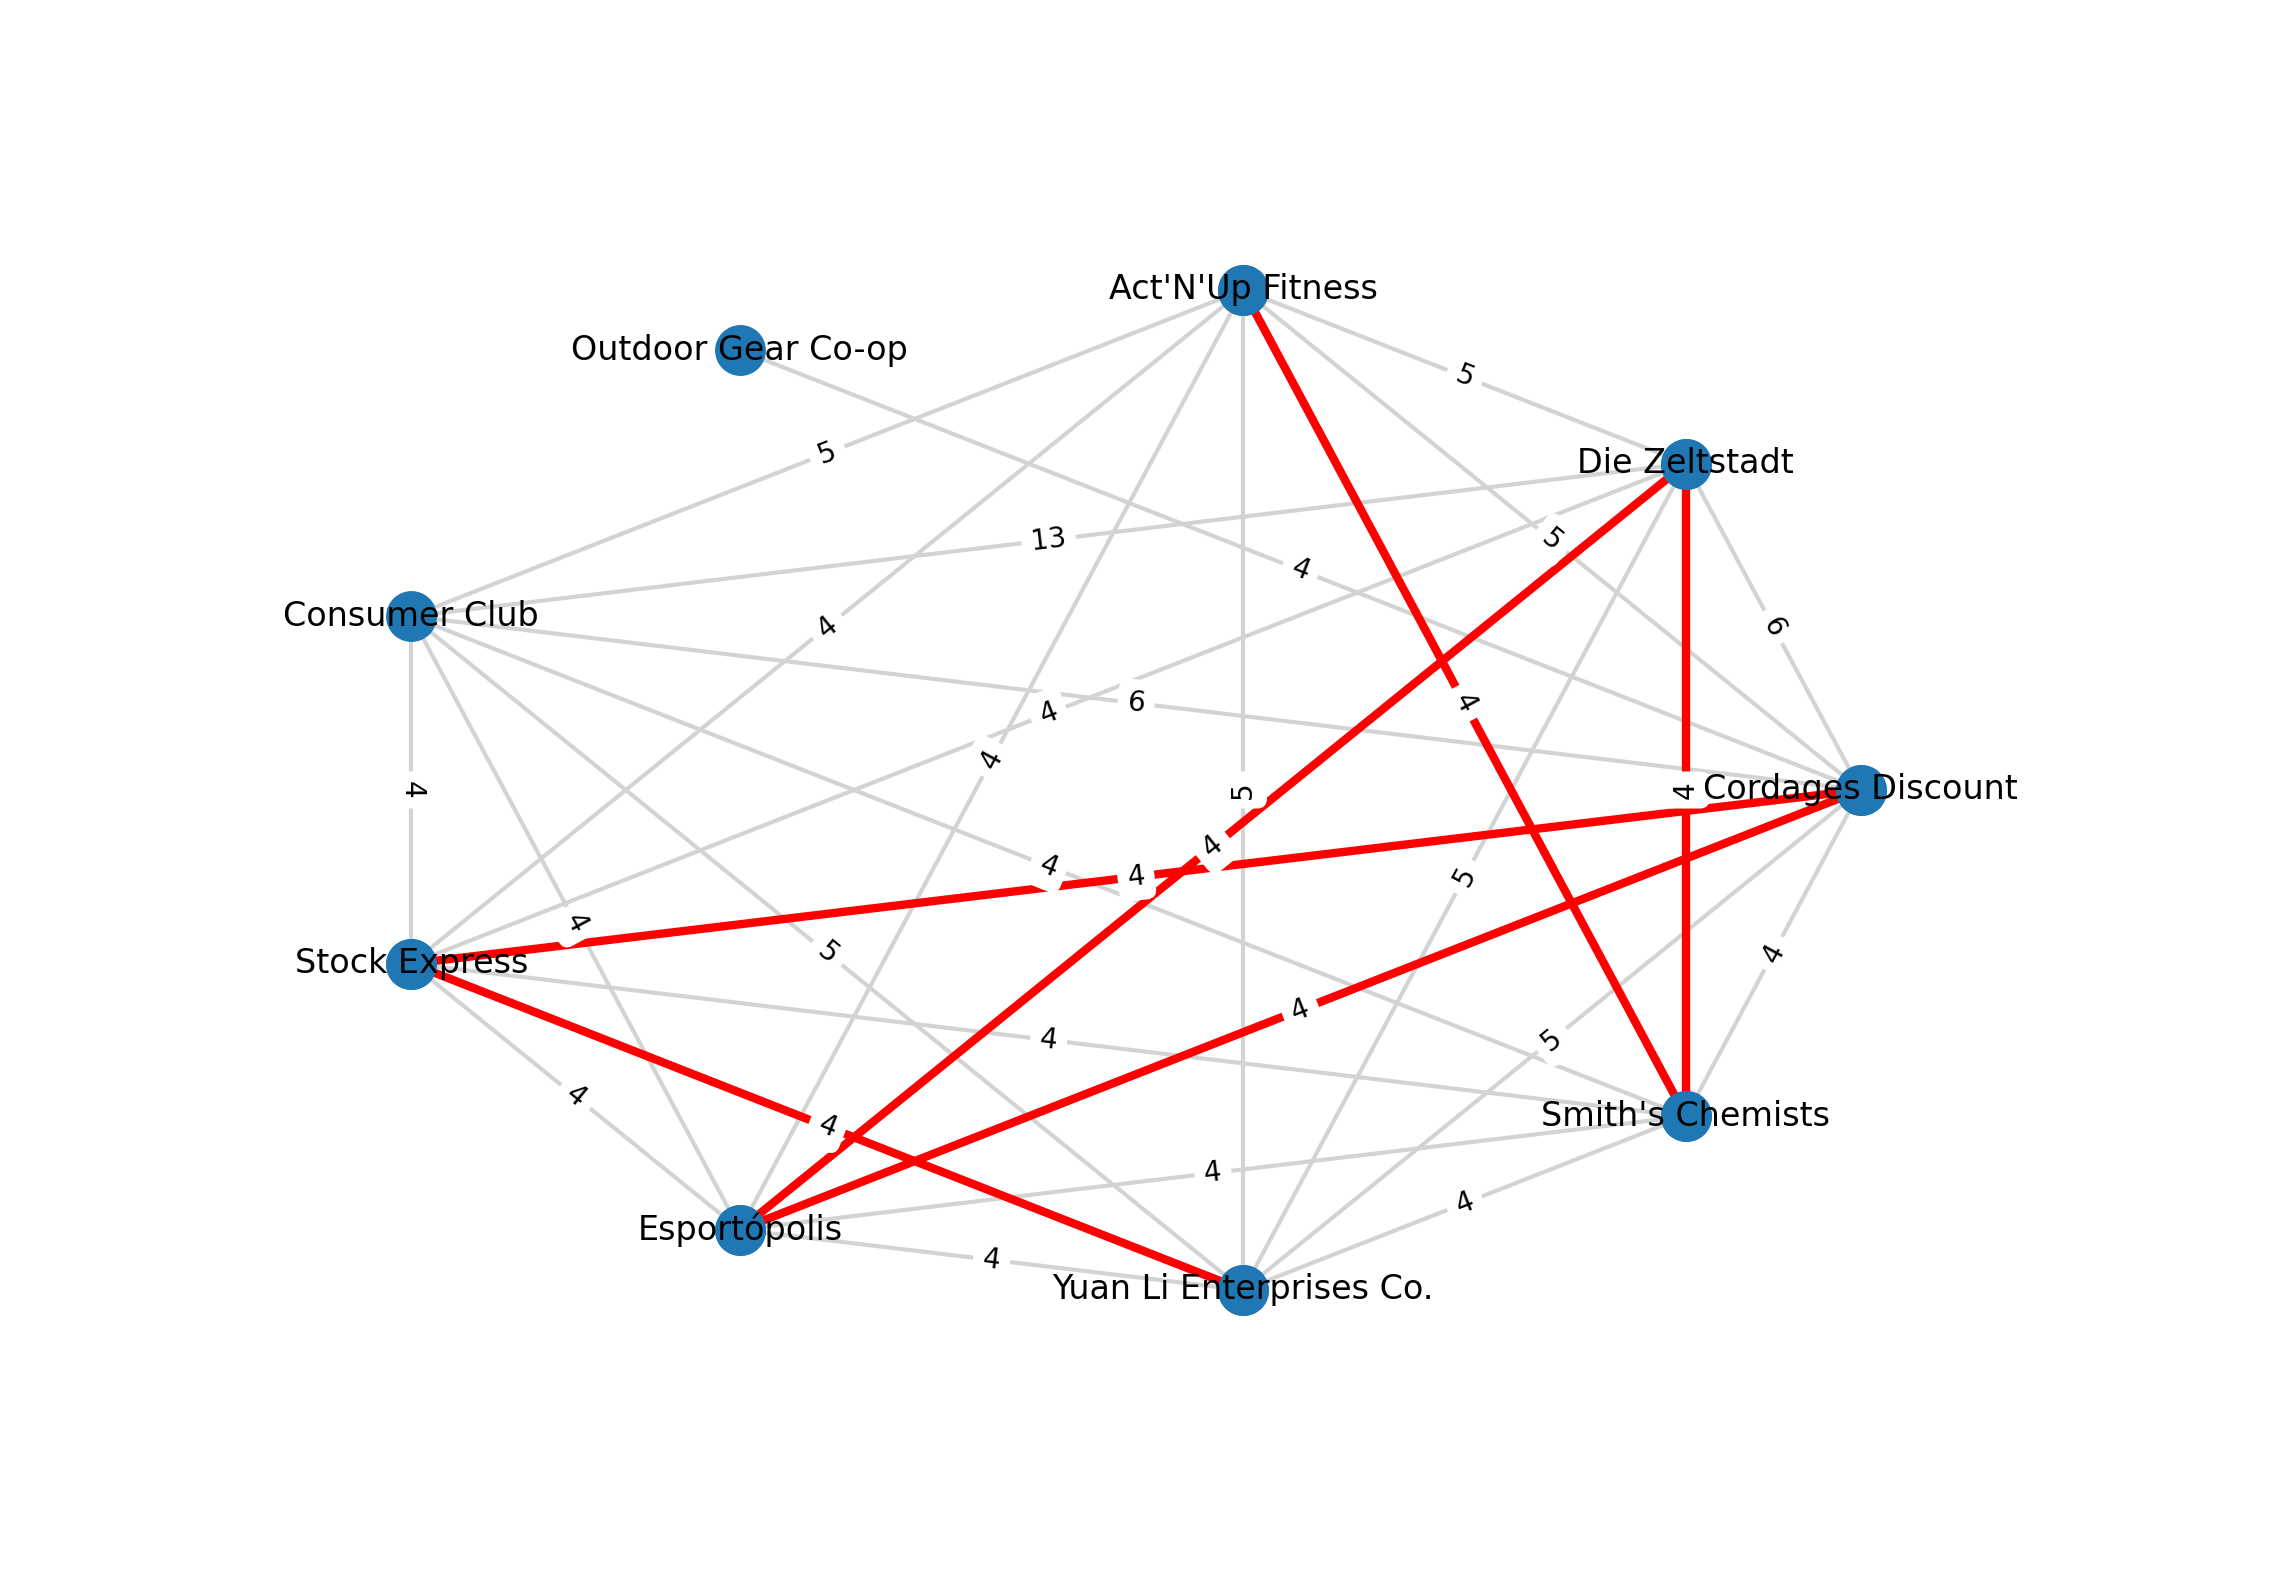
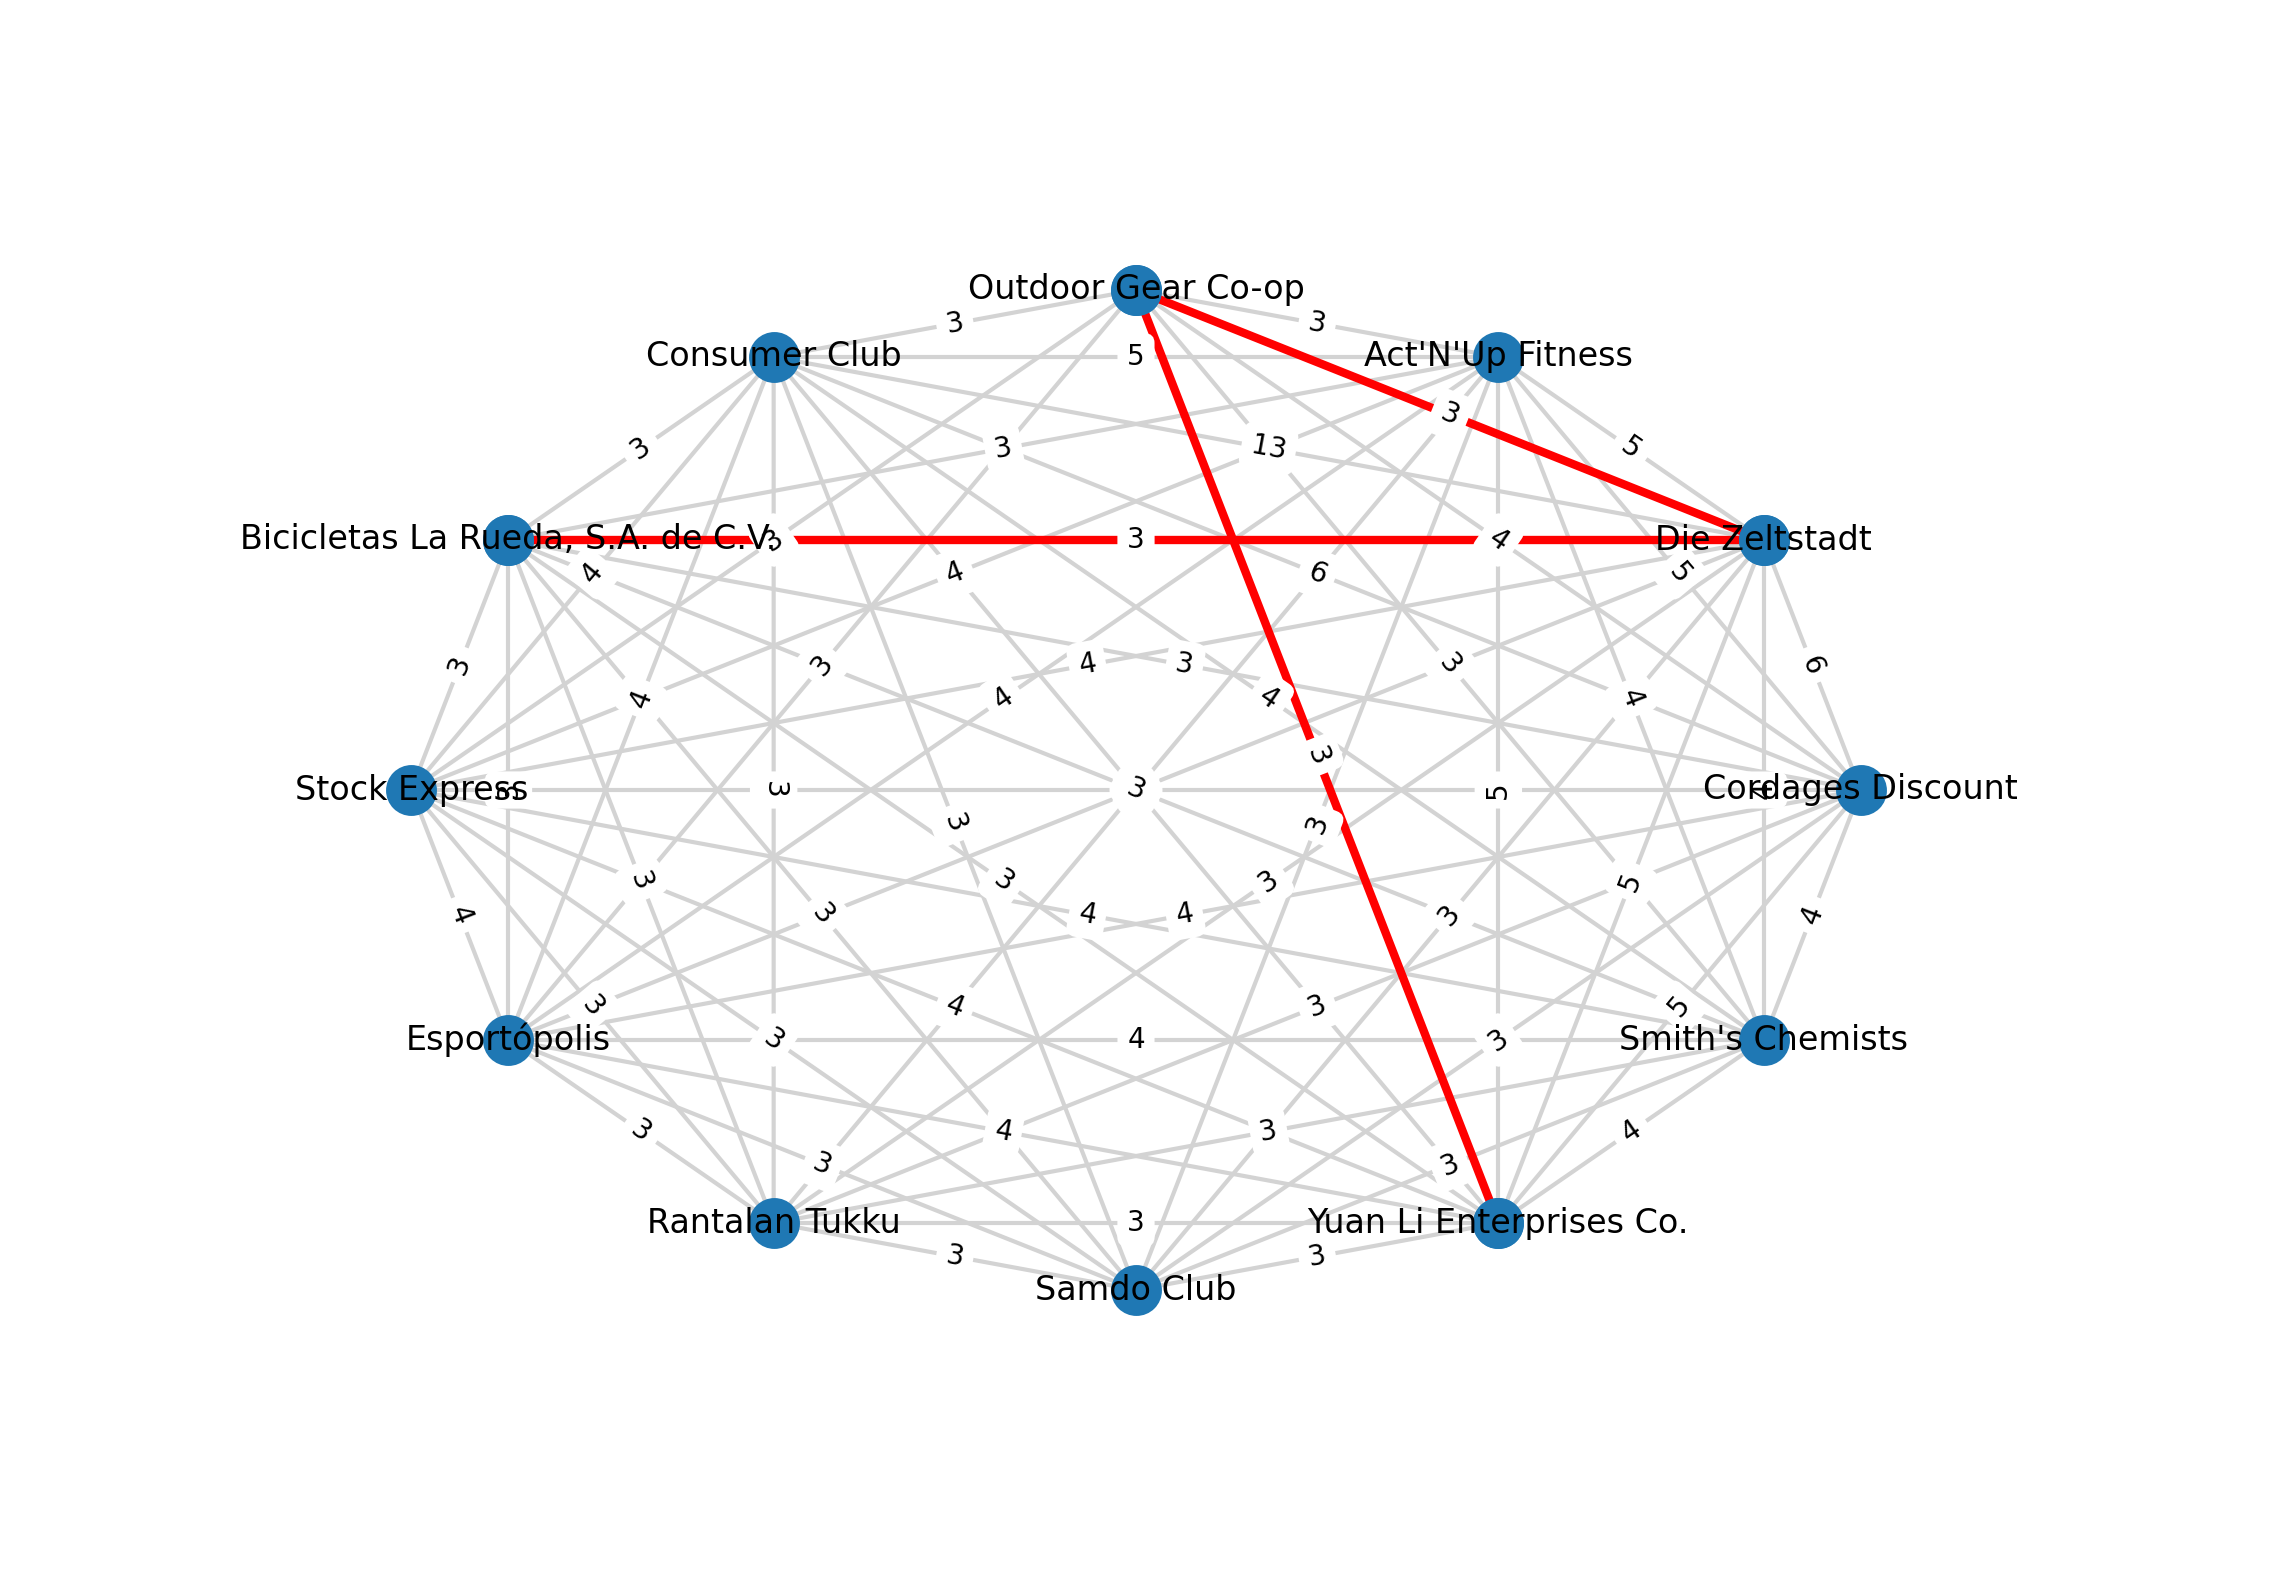
correzione ortografica di alcuni errori di battitura

Changed region(s): [[0.125, 0.1551, 0.8438, 0.8373]]

diff --git a/UI/controller.py b/UI/controller.py
@@ -1,7 +1,6 @@
 import flet as ft
 from UI.view import View
 from model.modello import Model
-import time
 import base64
 
 class Controller:
@@ -45,7 +44,7 @@ class Controller:
 
         if dateFrom > dateTo:
             self._view.txt_result_temp.controls.clear()
-            self._view.txt_result_temp.controls.append(ft.Text(f"Attenzione, la data di partenza non può essere successiva e quella di arrivo", color = "red"))
+            self._view.txt_result_temp.controls.append(ft.Text(f"Attenzione, la data di partenza non può essere successiva a quella di arrivo", color = "red"))
             self._view.update_page()
             return
 
